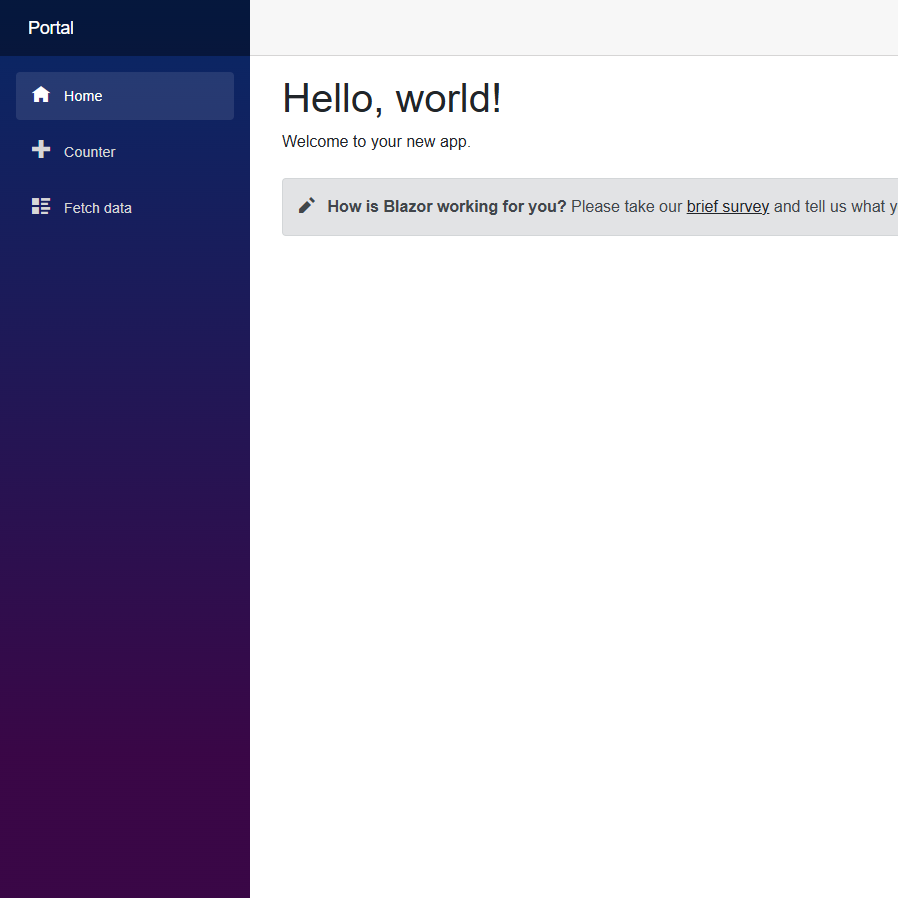
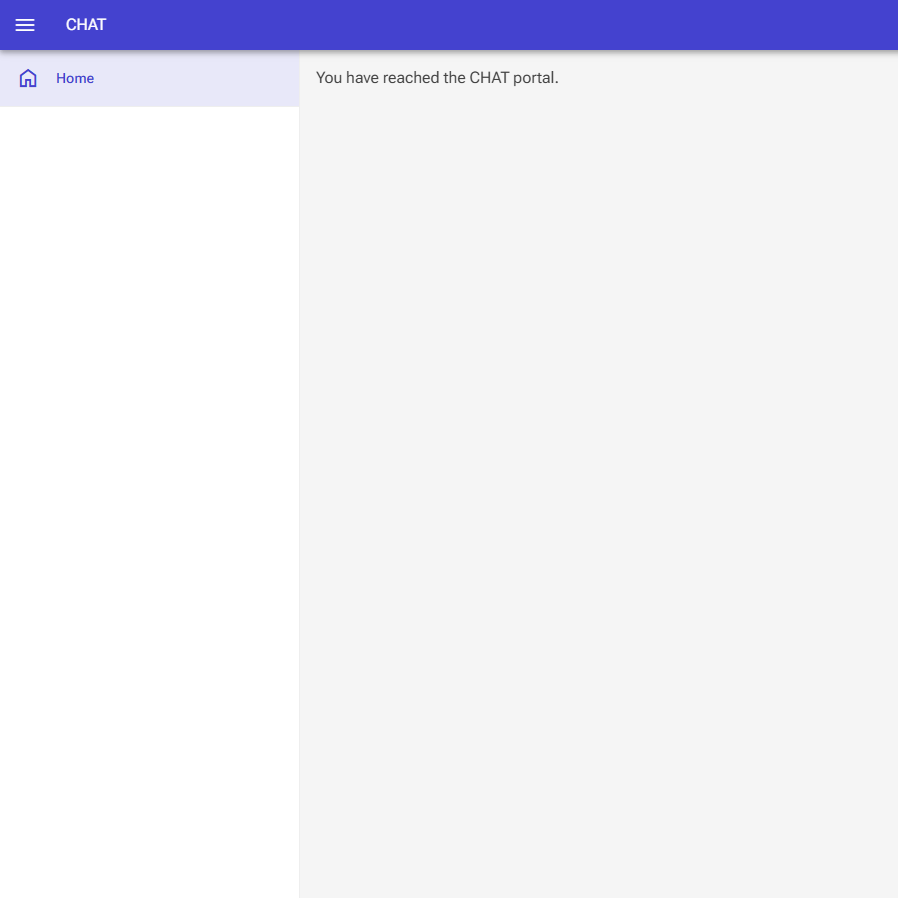
Implement Free UI Components By Radzen.

diff --git a/Portal/Program.cs b/Portal/Program.cs
@@ -1,6 +1,5 @@
-using Microsoft.AspNetCore.Components;
-using Microsoft.AspNetCore.Components.Web;
-using Portal.Data;
+//JTorralba
+using Radzen;
 
 namespace Portal
 {
@@ -13,7 +12,9 @@ namespace Portal
             // Add services to the container.
             builder.Services.AddRazorPages();
             builder.Services.AddServerSideBlazor();
-            builder.Services.AddSingleton<WeatherForecastService>();
+
+            //JTorralba
+            builder.Services.AddRadzenComponents();
 
             var app = builder.Build();
 

diff --git a/README.md b/README.md
@@ -8,7 +8,8 @@ CHAT implementation.
 
 Visual Studio\
 C#\
-.NET
+.NET\
+Free UI Components By Radzen
 
 ## Usage:
 
